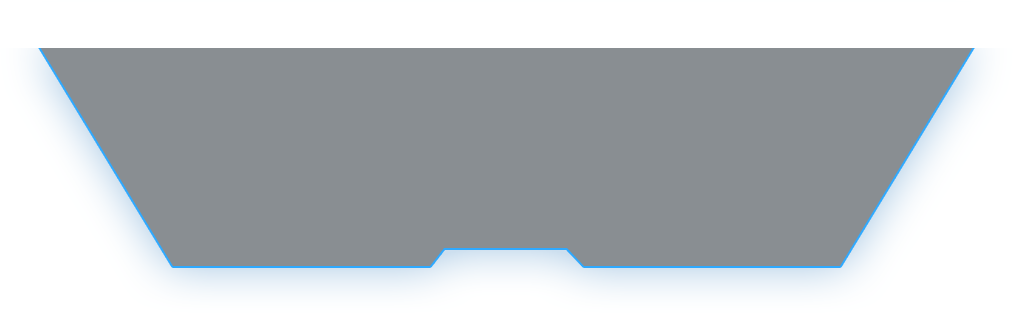
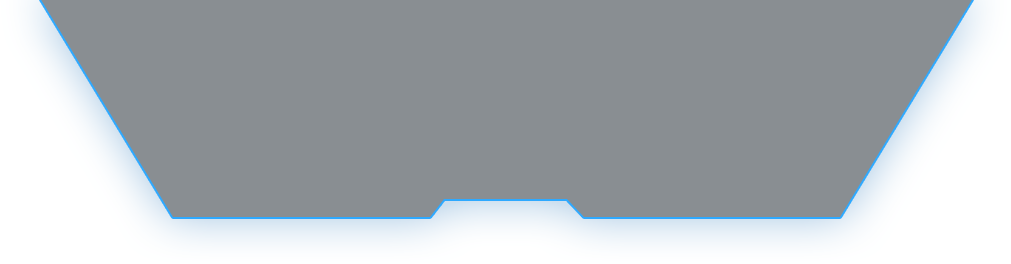
更改界面样式；对部分图片进行裁剪、合并。

Changed region(s): [[0.0307, 0.0, 0.9812, 0.8788]]

diff --git a/src/App.vue b/src/App.vue
@@ -3,11 +3,11 @@
     <Global :randomData="dataSourceStatus.randomData" :poiChangedNum="dataSourceStatus.poiChangedNum" :crowdInfoSource='dataSourceStatus.crowdInfoSource' :commonInfoSource='dataSourceStatus.commonInfoSource'></Global>
     <div class="fm-stretch flex-layout float">
       <div class="col flex-layout-v" style="width: 25%;align-items: flex-start;">
+
         <div class="top-title left">
-          <div class="text" style="margin-left: -130px;margin-top: 18px;">
-            <div><img src="./assets/dianchi.png" alt="" class="img1"></div>
-            <div><img src="./assets/icon_2.png" alt="" style="width: 80%;"></div>
-            <div style="margin-top: -5px;">数据来源</div>
+          <div class="text" >
+            <img src="./assets/icon_2.png">
+            <div style="padding:0 10px">数据来源</div>
           </div>
         </div>
         <div class="flex-layout-v" style="height: 100%;padding-left: 40px;">
@@ -29,10 +29,6 @@
           <panel title="众包 Crowdsourcing" style="margin-bottom: -30px;">
             <div slot="content" class="flex-layout-v" style="align-items: flex-start;">
               <div class="flex-layout remark" style="align-items: flex-start;padding: 10px 6px;">
-                <!-- <div>用户总量</div>
-                <div>
-                  <span class='num-text' style="margin: 0 2px 0 7px;">{{crowd.crowdUserNum}}</span> 个
-                </div> -->
               </div>
               <line-chart-crowd :chartData='crowd'></line-chart-crowd>
             </div>
@@ -47,7 +43,7 @@
       <div class="flex-layout-v fm-stretch" style="width: 40%;align-items: center;">
         <div class="center-content">
           <div style="padding: 70px 130px;">
-            <div style="margin: 0px -40px;">
+            <div style="margin: 0px 0px;">
               <banner></banner>
             </div>
             <div class="flex-layout summary">
@@ -76,29 +72,20 @@
         </div>
       </div>
       <div class="col flex-layout-v" style="width:25%;align-items: flex-end">
-        <div class="top-title right">
-          <div class="text" style="padding-left: 130px;padding-bottom: 40px;">
-            <div style="margin-top: 18px;">数据出品</div>
-            <div><img src="./assets/icon_1.png" alt="" style="width: 80%;margin-top: 24px;"></div>
-            <div class="topRight"><img src="./assets/dianchi.png" alt="" class="img2"></div>
+        <div class="top-title right" style="padding-top: 0%;align-items: flex-start;">
+          <div class="text">
+            <div style="padding:0 10px">数据出品</div>
+            <img src="./assets/icon_1.png">
           </div>
         </div>
         <div class="flex-layout-v" style="height: 100%;padding-right: 40px;">
           <panel title="日出品 Daily Release">
             <div slot="content">
-              <!-- <div style="color: white;margin-left: 235px;margin-top: 6%;">
-                <span> 单位: </span>
-                <span> 公里 / 千个 </span>
-              </div> -->
               <day-chart :dayProduce="charData.dayProduce"></day-chart>
             </div>
           </panel>
           <panel title="月出品 Monthly Release">
             <div slot="content">
-              <!-- <div style="color: white;margin-left: 235px;margin-top: 6%;">
-                <span> 单位: </span>
-                <span> 公里 / 个 </span>
-              </div> -->
               <month-chart :monthProduce="charData.monthProduce"></month-chart>
             </div>
           </panel>
@@ -110,7 +97,7 @@
           </panel>
         </div>
         <div class="bottom-title right">
-          <div class="text" style="margin-left: 100px;">
+          <div class="text" style="padding-left:100px" >
             Data Release
           </div>
         </div>
@@ -694,30 +681,43 @@ div.legendContainer div.legend span.crowdInfoNone {
   width: 578px;
   display: flex;
   justify-content: center;
+  flex-wrap: nowrap;
+  
 }
 
 .top-title.left {
-  margin-left: -38px;
-  margin-top: -43px;
+  /* margin-left: -38px;
+  margin-top: -43px; */
   background: url(./assets/left_up.png) no-repeat center;
-  background-size: 100% 100%;
+  
+  background-position:-25px 0px;
 }
 
 .top-title.right {
-  margin-right: -38px;
-  margin-top: -43px;
+  /* margin-right: -38px;
+  margin-top: -43px; */
   background: url(./assets/right_up.png) no-repeat center;
-  background-size: 100% 100%;
+
+  background-position:45px 0px;
 }
 
 .top-title>.text {
-  width: 300px;
+  width: 250px;
+  height: 70px;
   color: #fd8e2a;
   display: flex;
-  justify-content: space-between;
+  justify-content: center;
+  align-items: center;
   font-size: 26px;
   font-weight: bold;
-  padding-top: 46px;
+}
+
+.top-title.left>.text {
+  padding-left: 70px;
+}
+
+.top-title.right>.text {
+  padding-right: 70px;
 }
 
 .bottom-title {
@@ -731,12 +731,12 @@ div.legendContainer div.legend span.crowdInfoNone {
 .bottom-title.left {
   margin-left: -40px;
   background: url(./assets/left_down.png) no-repeat center;
-  background-size: 100% 100%;
+  background-position:-5px -10px;
 }
 
 .bottom-title.right {
   background: url(./assets/right_down.png) no-repeat center;
-  background-size: 100% 100%;
+  background-position:5px -10px;
 }
 
 .bottom-title>.text {
@@ -746,19 +746,22 @@ div.legendContainer div.legend span.crowdInfoNone {
   padding-top: 50px;
 }
 
-.img1 {
+/*.img1 {
   width: 130px;
-  margin-top: -18px;
-}
+  display: flex;
+  align-items:flex-start;
+  /* padding-left: -30px; 
+}*/
 
-.img2 {
+/* .img2 {
   width: 130px;
-  margin-top: 5px;
+  display: flex;
+  align-items:flex-start;
   -moz-transform: scaleX(-1);
   -webkit-transform: scaleX(-1);
   -o-transform: scaleX(-1);
   transform: scaleX(-1);
-}
+} */
 
 div.inlineChart {
   display: inline-block;
